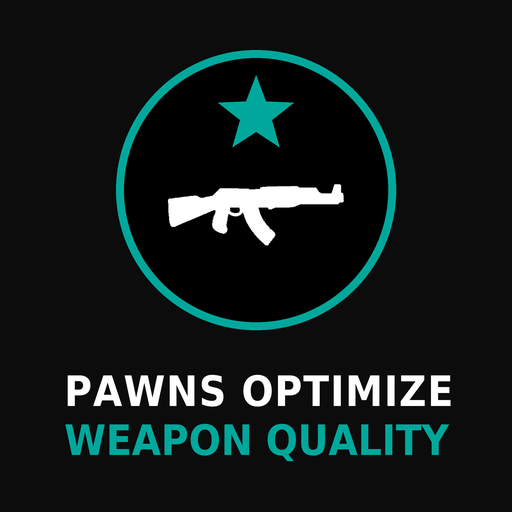
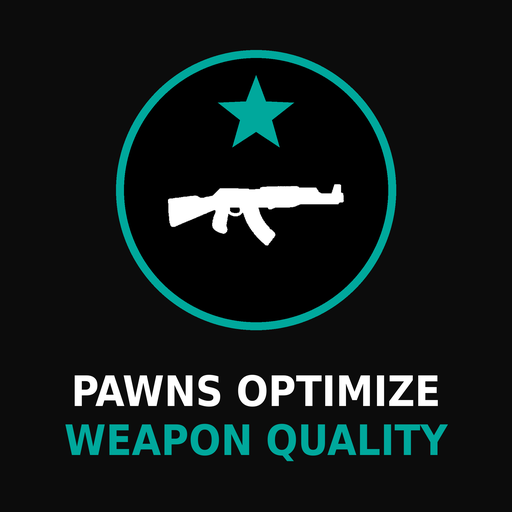
assets: natural-center preview title (drop equal-width tracking; reads as centered, not left-aligned)
Claude-Session: https://claude.ai/code/session_01P8KGqMWXs1NiRZudGV5mNa

Changed region(s): [[0.125, 0.7188, 0.875, 0.9062]]

diff --git a/Media/badge_gen.py b/Media/badge_gen.py
@@ -155,15 +155,13 @@ def render_preview(rifle):
         while s > 10 and max(d.textlength(t, font=ImageFont.truetype(FONT, s)) for t in texts) > max_w:
             s -= 1
         return ImageFont.truetype(FONT, s)
-    prow1 = "PAWNS OPTIMIZE"
-    prow2a, prow2b = "WEAPON ", "QUALITY"
-    prow2 = prow2a + prow2b
+    prow1, prow2 = "PAWNS OPTIMIZE", "WEAPON QUALITY"
     ftitle = fitp([prow1, prow2], 42 * P, 470 * P)
     plh = sum(ftitle.getmetrics())
     ytop = 367 * P
-    ptarget = max(d.textlength(prow1, font=ftitle), d.textlength(prow2, font=ftitle))
-    draw_row(d, prow1, ftitle, W / 2, ytop, ptarget, WHITE)
-    draw_row(d, prow2, ftitle, W / 2, ytop + plh, ptarget, GOLD)
+    for text, y, color in [(prow1, ytop, WHITE), (prow2, ytop + plh, GOLD)]:
+        w = d.textlength(text, font=ftitle)
+        d.text(((W - w) / 2, y), text, font=ftitle, fill=color)
     img.resize((512, 512), Image.LANCZOS).save(os.path.join(HERE, "..", "About", "Preview.png"))
     print("wrote About/Preview.png")
 
